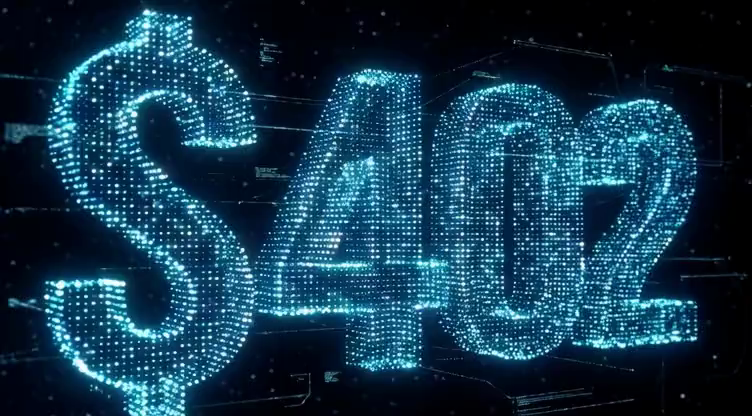
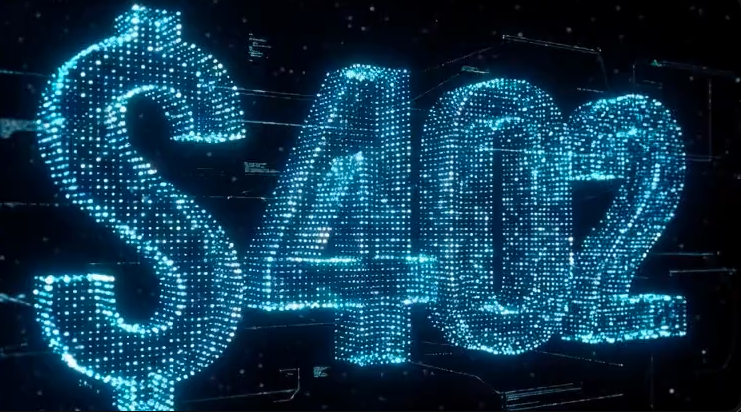
fix: OG image for social sharing — use new $402 LED still image
Remove dynamic opengraph-image.tsx and twitter-image.tsx that were
overriding the static still image. Update metadata references from
og-402.jpg to 402-OG.png.

diff --git a/app/layout.tsx b/app/layout.tsx
@@ -41,10 +41,10 @@ export const metadata: Metadata = {
     type: "website",
     images: [
       {
-        url: "https://path402.com/og-402.jpg",
-        width: 1200,
-        height: 630,
-        alt: "$402 Protocol — Traffic lights representing HTTP 401, 402, 403 status codes",
+        url: "https://path402.com/402-OG.png",
+        width: 741,
+        height: 412,
+        alt: "$402 — Access Tokens for the Open Web",
       },
     ],
     videos: [
@@ -62,7 +62,7 @@ export const metadata: Metadata = {
     description: "Mint an access token for anything addressable.",
     creator: "@b0ase",
     site: "@b0ase",
-    images: ["https://path402.com/og-402.jpg"],
+    images: ["https://path402.com/402-OG.png"],
   },
   robots: {
     index: true,
